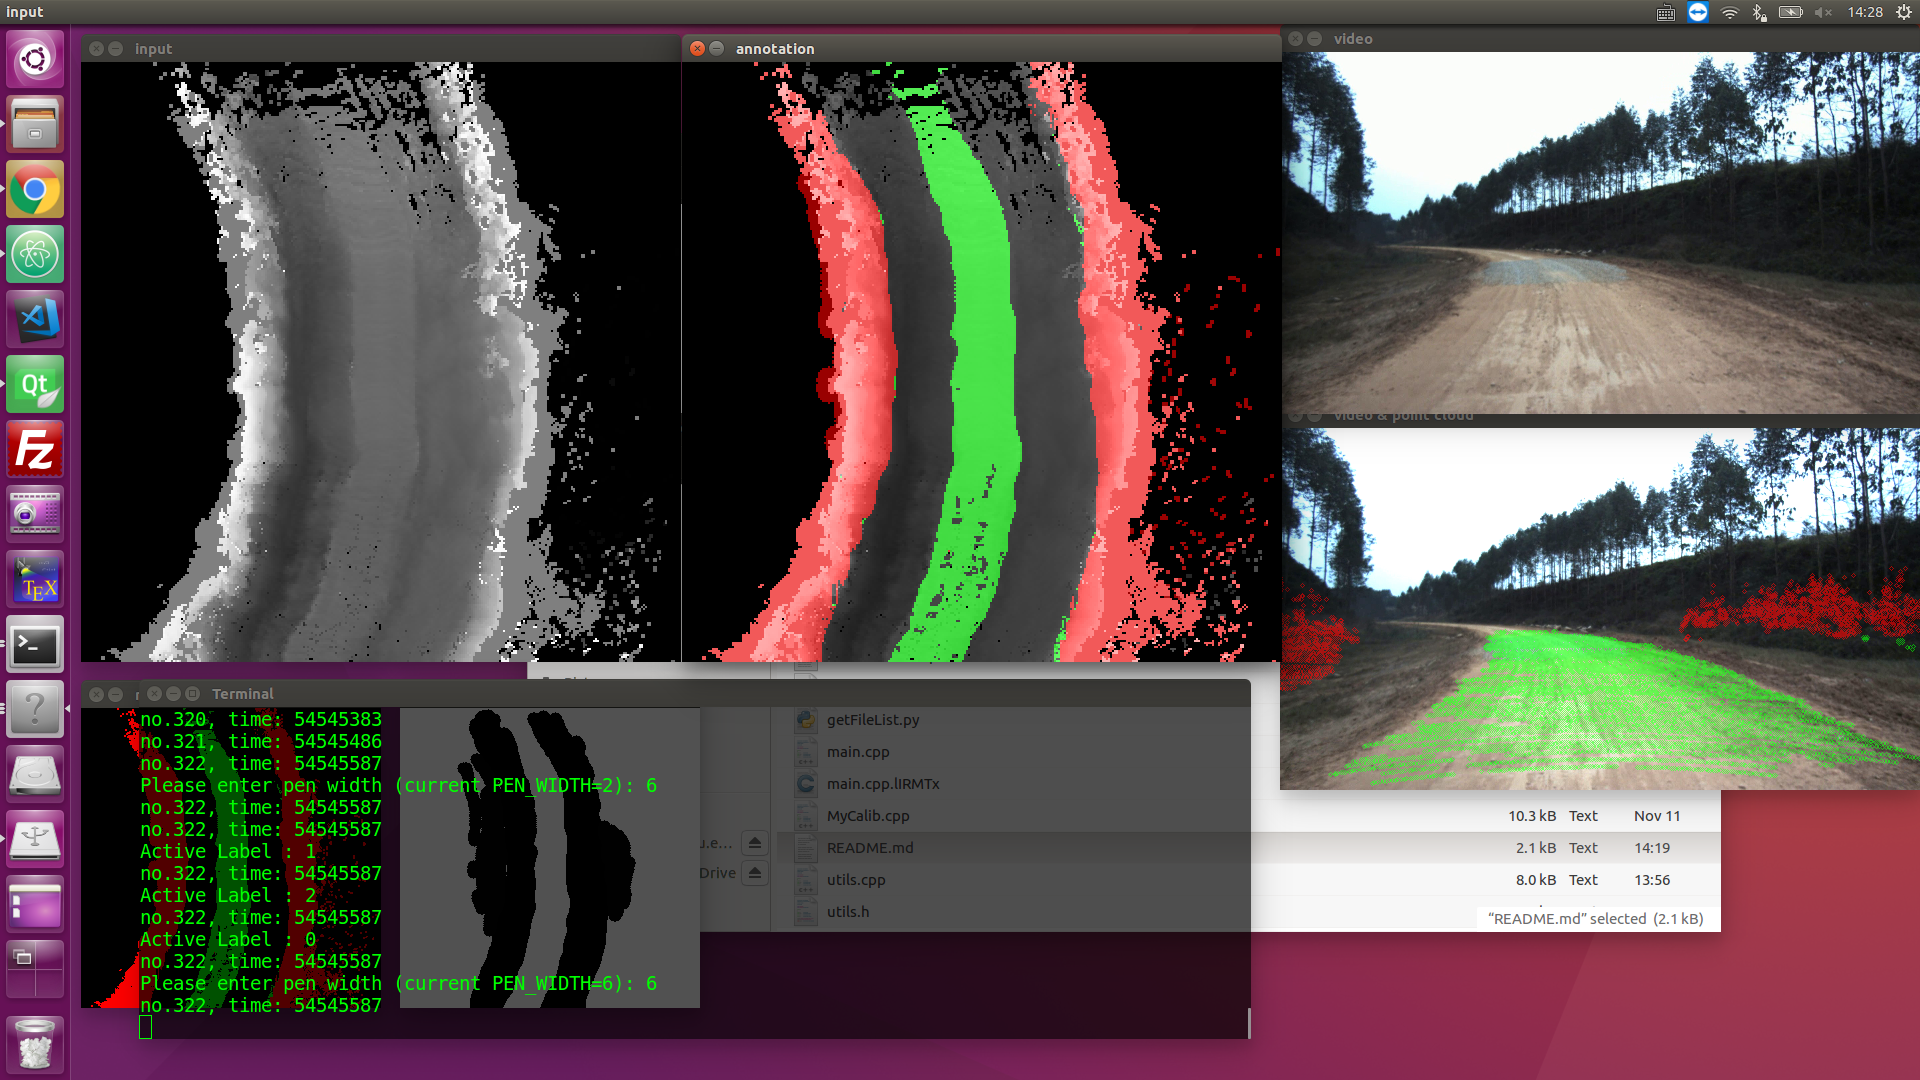
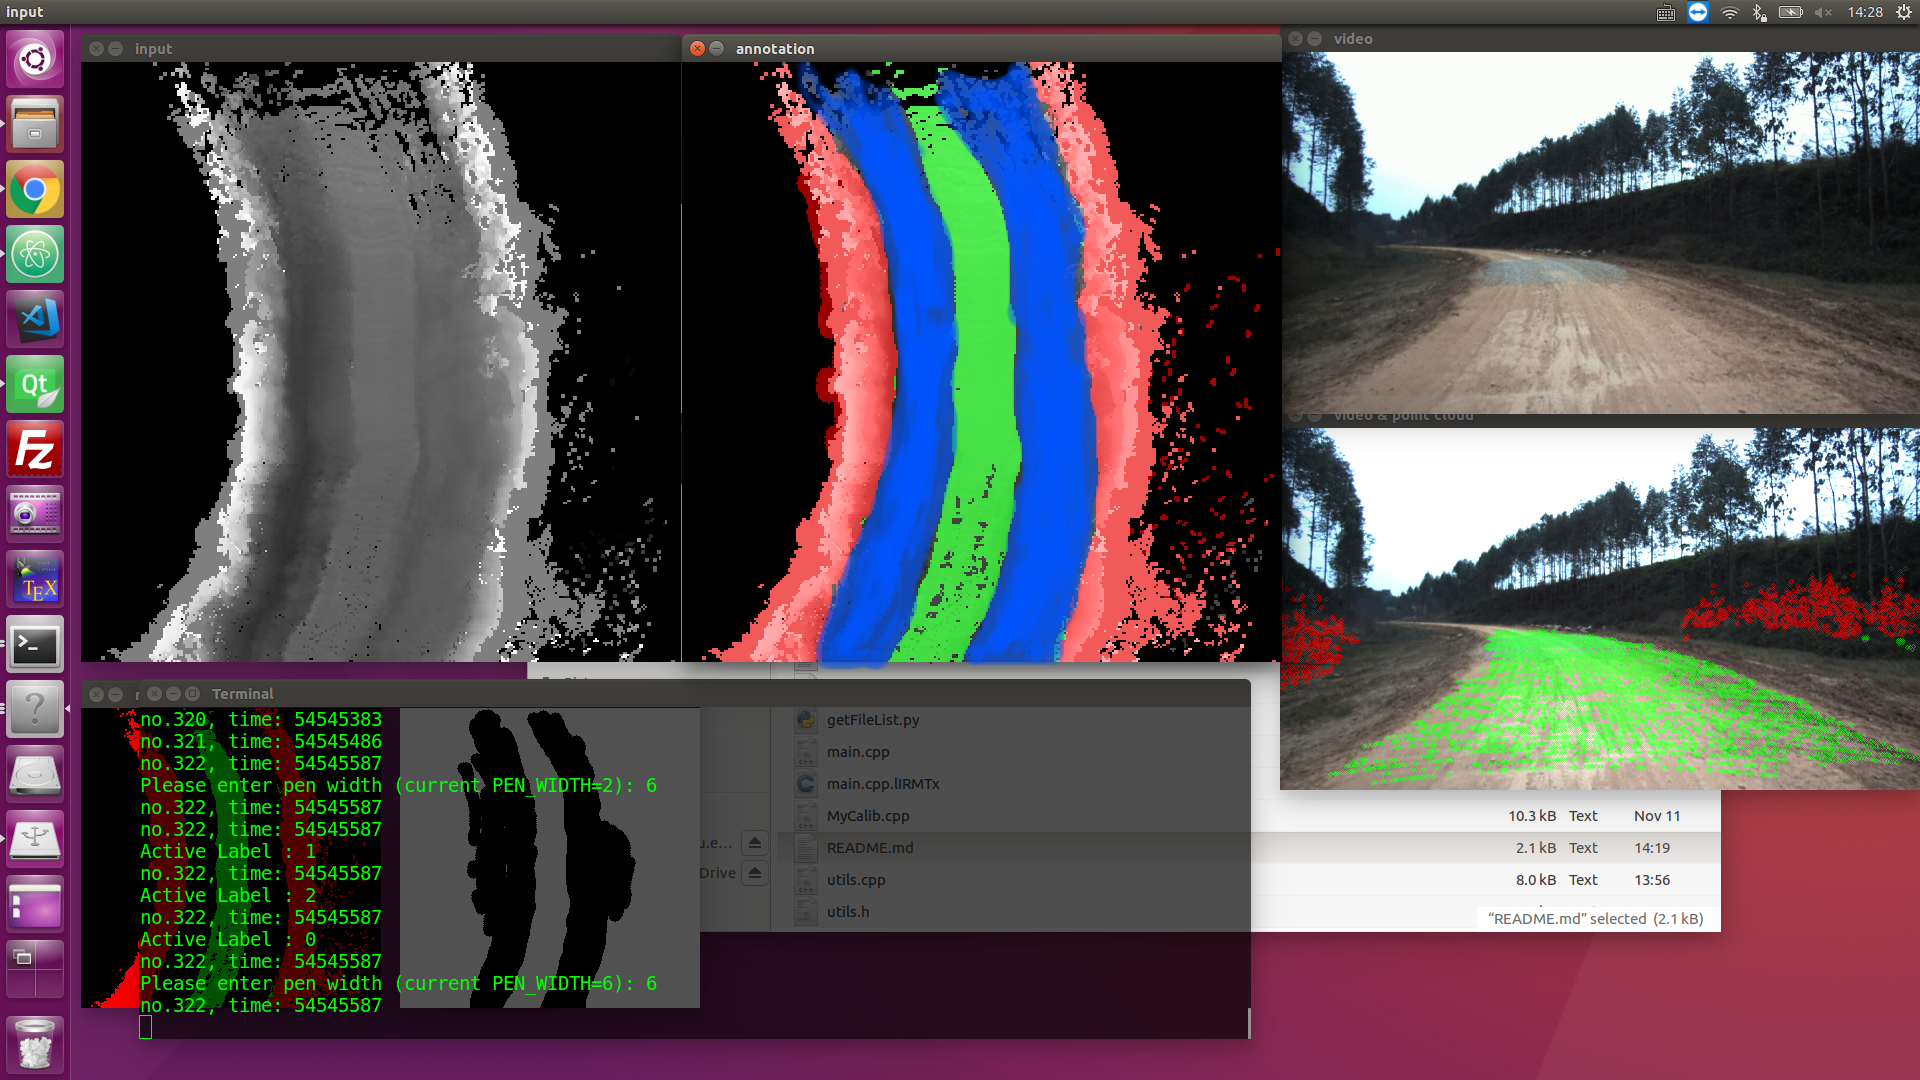
Add a new label (uncertain passable)

Changed region(s): [[0.4062, 0.0611, 0.5938, 0.6417]]

diff --git a/DemLabelTool/main.cpp b/DemLabelTool/main.cpp
@@ -124,6 +124,7 @@ void LabelImage(int x, int y)
     if (ACTIVE_LABEL == 0) {c = 0; cs = cv::Scalar(0, 0, 0);} // Unknown
     if (ACTIVE_LABEL == 1) {c = 1; cs = cv::Scalar(0, 255, 0);} // Passable
     if (ACTIVE_LABEL == 2) {c = 2; cs = cv::Scalar(0, 0, 255);} // Unpassable
+    if (ACTIVE_LABEL == 3) {c = 3; cs = cv::Scalar(255, 0, 0);} // Uncertain passable
 
     // Can't label the pixel without laser point
     if (inputImg.at<cv::Vec3b>(x, y)[0] == 0 &&
@@ -156,6 +157,11 @@ void UpdateVis()
                 newGtImg.at<cv::Vec3b>(i, j)[0] = 0;
                 newGtImg.at<cv::Vec3b>(i, j)[1] = 0;
                 newGtImg.at<cv::Vec3b>(i, j)[2] = 255;
+            }
+            if (ac == 3) {      // Uncertain passable
+                newGtImg.at<cv::Vec3b>(i, j)[0] = 255;
+                newGtImg.at<cv::Vec3b>(i, j)[1] = 0;
+                newGtImg.at<cv::Vec3b>(i, j)[2] = 0;
             }
         }
     }
@@ -347,6 +353,12 @@ int main()
         else
         if (WaitKey == '2') {       // change active label class
             ACTIVE_LABEL = 2;
+            printf("Active Label : %c\n", WaitKey);
+            idx --;
+        }
+        else
+        if (WaitKey == '3') {       // change active label class
+            ACTIVE_LABEL = 3;
             printf("Active Label : %c\n", WaitKey);
             idx --;
         }

diff --git a/DemLabelTool/README.md b/DemLabelTool/README.md
@@ -16,7 +16,7 @@
 5. 在input或者annotation窗口进行标注
 6. 窗口内容说明：
   - input: 激光DEM高程图（颜色越白高度越高），车辆位置位于图片中心，行驶方向向上
-  - newGT: 真值图的可视化（绿色可通行，红色不可通行，黑色unknown）
+  - newGT: 真值图的可视化（绿色可通行，红色不可通行，蓝色为通行代价较高的模糊地带，黑色unknown）
   - annotation: input和newGT叠加的可视化图，用于标注
   - video:视频图像
   - video & point cloud: 将激光点投影到视频图像的结果
@@ -35,6 +35,7 @@
 |0              |  设置标注类别为0，Unknown|
 |1              | 设置标注类别为1，可通行（绿色）|
 |2              | 设置标注类别为2，不可通行（红色）|
+|3 | 设置标注类别为3，模糊区域/通行代价高（蓝色） |
 |esc           |退出|
 
 ### 标注程序的逻辑
@@ -46,9 +47,9 @@
 
 ### 标注原则
 
-1. 绝对可通行和绝对不可通行的区域进行标注
+1. 绝对可通行和绝对不可通行的区域用类别1\2标注
 
-2. 模棱两可的区域（例如草地），按照unknown标记
+2. 模棱两可的区域（例如草地），如果初始为可通行区域，则倾向按照类别3（模糊区域/通行代价高）标记
 
 3. 一些典型情况参考样例（标注前后对比图）
 
@@ -61,12 +62,12 @@
       标注后![example1_label](./resource/example1_label.png)
 
    2. 样例2（道路两侧有模糊地带）
-   * 将模糊地带（物理可通行，但是通行代价明显大于道路区域）标记为unknown
+   * 将模糊地带（物理可通行，但是通行代价明显大于道路区域）标记为类别3(蓝色)
      标注前![example2_unlabel](./resource/example2_unlabel.png)
    标注后![example2_label](./resource/example2_label.png)
 
    3. 样例3 （大平原）
-   * 红绿混杂的模糊区域和零散的边缘标记为unknown
+   * 红绿混杂的区域和零散的边缘，如果不能确定属于类别3，则标记为unknown
    标记前![example3_unlabel](./resource/example3_unlabel.png)
    标记后![example3_label](./resource/example3_label.png)
    4. 样例4（类似样例2）
